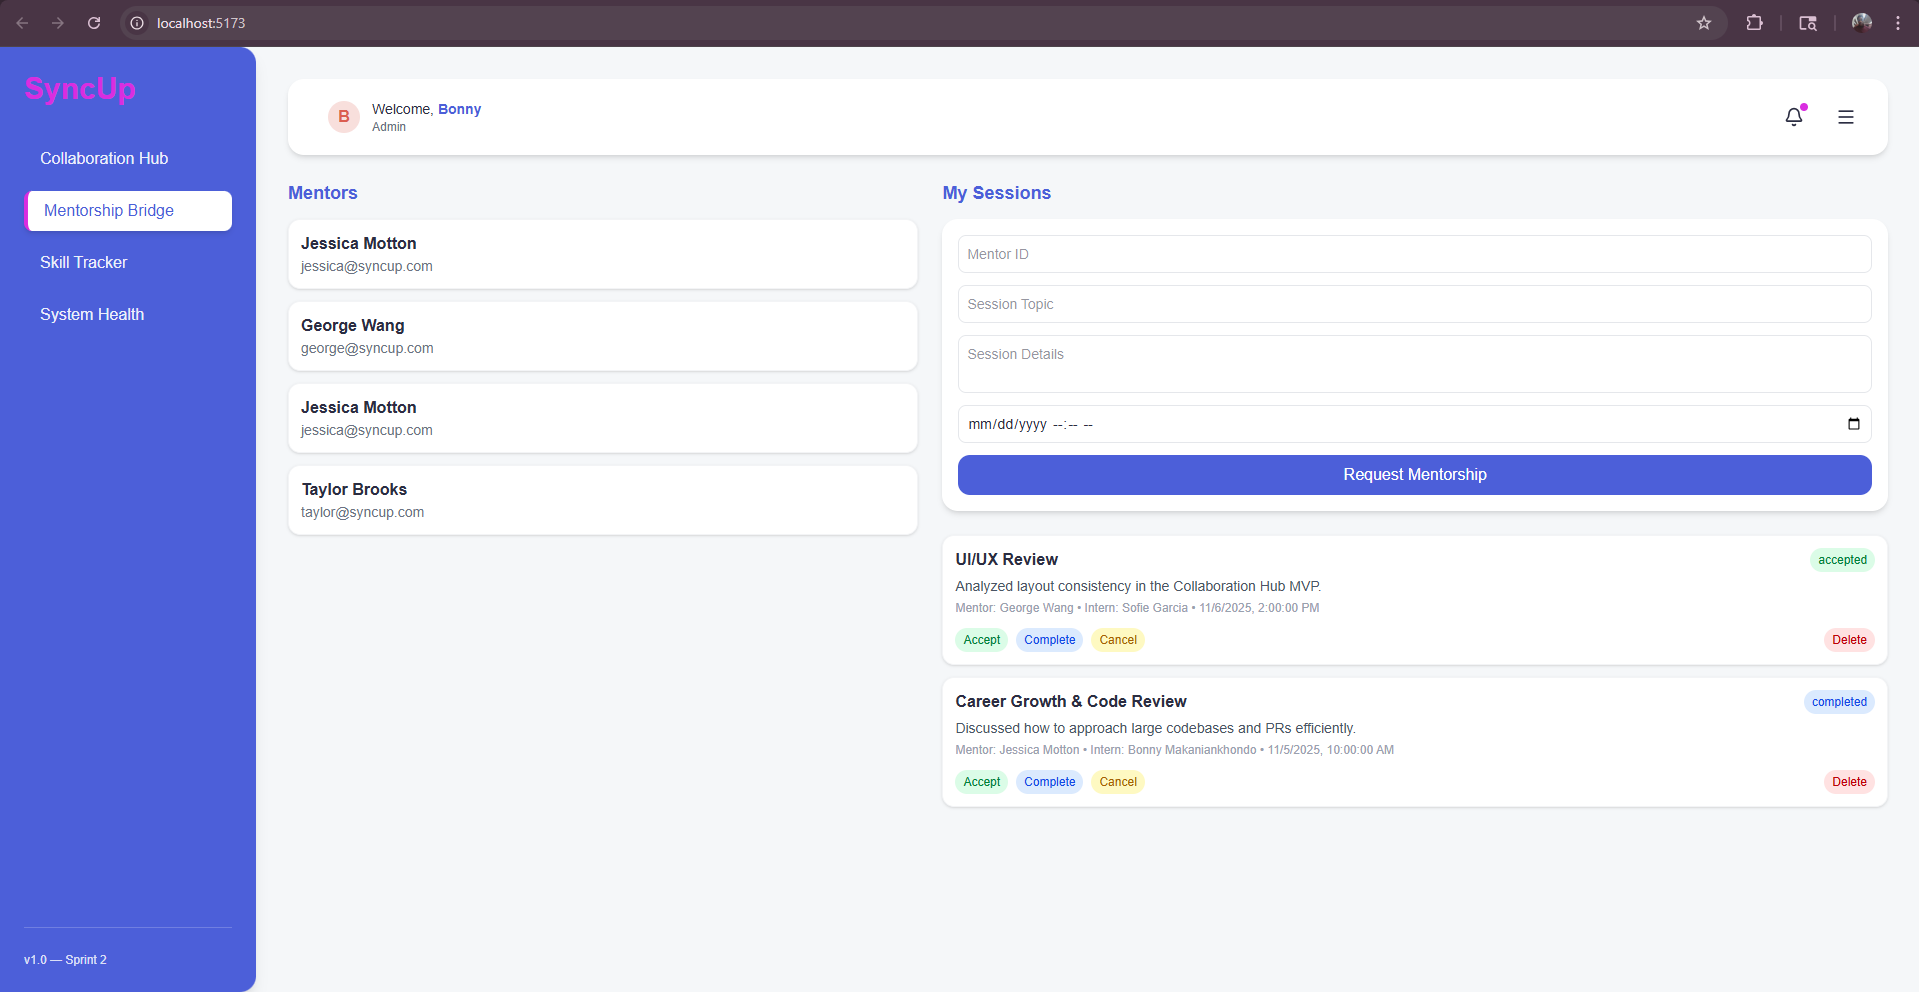
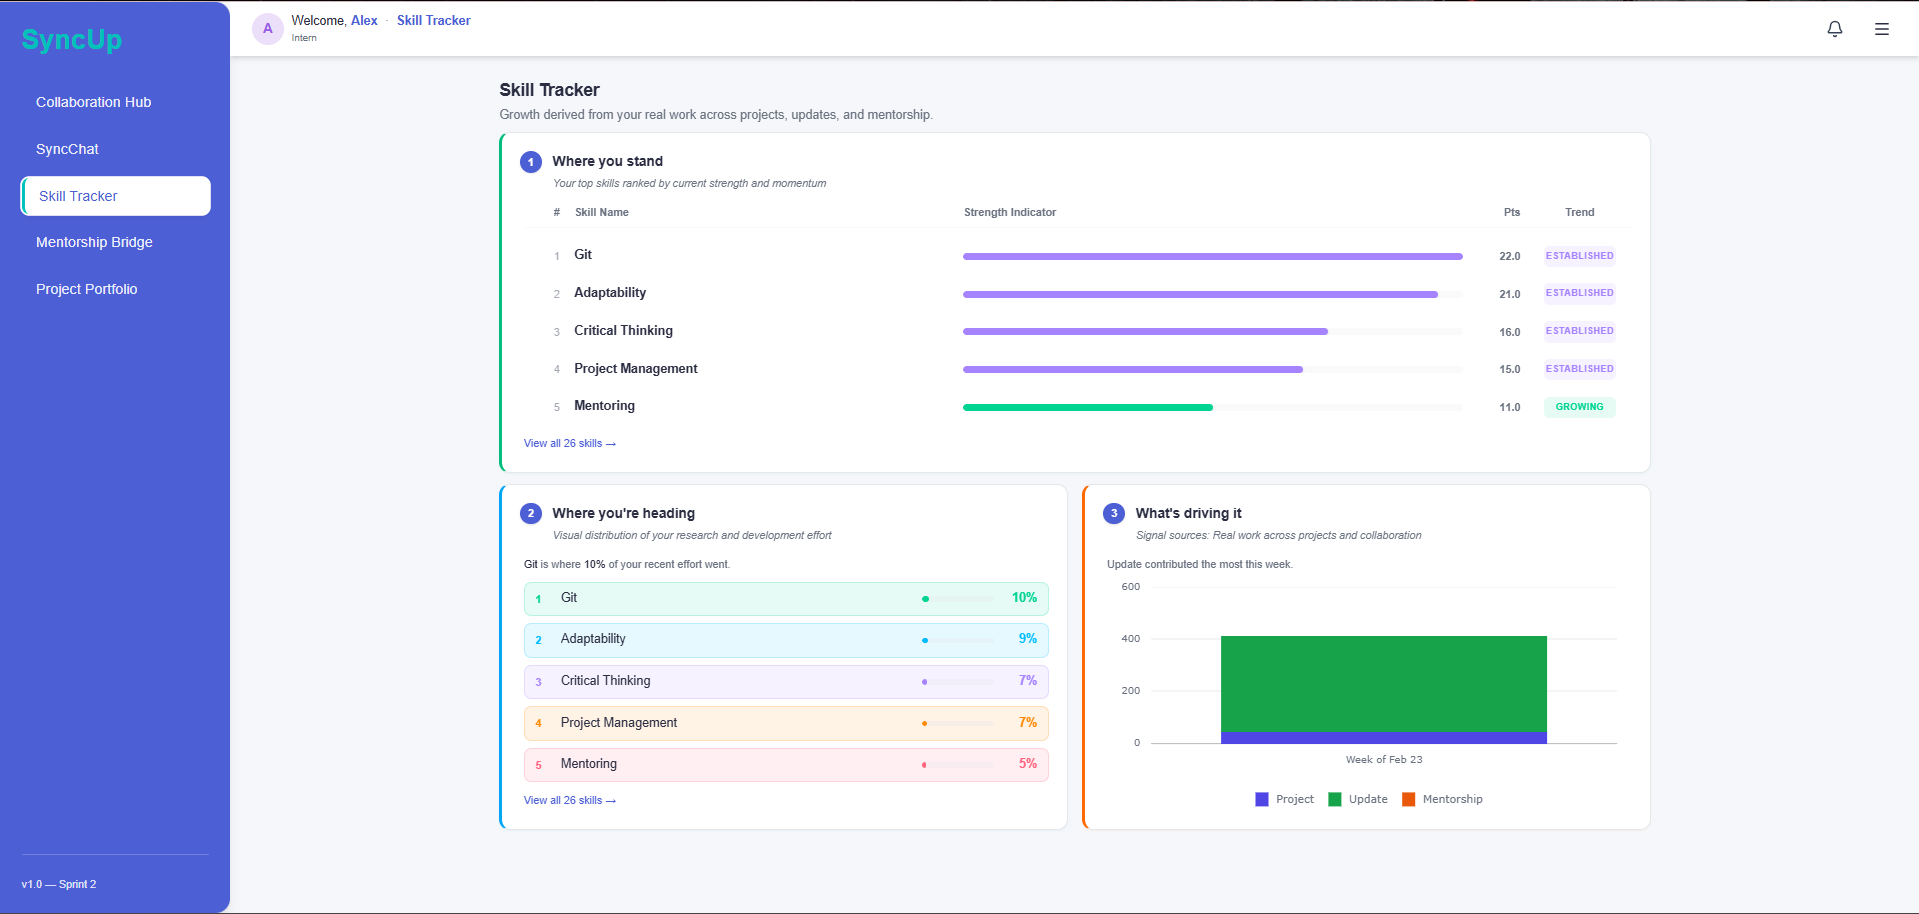
feat: implement project display components and add case study data

diff --git a/src/components/ui/ProjectImagePreview.jsx b/src/components/ui/ProjectImagePreview.jsx
@@ -1,0 +1,98 @@
+import { Expand, X } from "lucide-react";
+import { useEffect, useState } from "react";
+import { createPortal } from "react-dom";
+
+function PreviewModal({ alt, image, onClose, title }) {
+  useEffect(() => {
+    const onKeyDown = (event) => {
+      if (event.key === "Escape") {
+        onClose();
+      }
+    };
+
+    document.addEventListener("keydown", onKeyDown);
+    document.body.style.overflow = "hidden";
+
+    return () => {
+      document.removeEventListener("keydown", onKeyDown);
+      document.body.style.overflow = "";
+    };
+  }, [onClose]);
+
+  return createPortal(
+    <div
+      className="fixed inset-0 z-[80] flex items-center justify-center bg-slate-950/84 px-4 py-6 backdrop-blur-sm"
+      onClick={onClose}
+      role="presentation"
+    >
+      <div
+        className="relative w-full max-w-6xl overflow-hidden rounded-[1.75rem] border border-white/10 bg-slate-950 shadow-[0_40px_120px_-40px_rgba(15,23,42,0.9)]"
+        onClick={(event) => event.stopPropagation()}
+        role="dialog"
+        aria-modal="true"
+        aria-label={`${title} preview`}
+      >
+        <button
+          type="button"
+          onClick={onClose}
+          className="absolute right-4 top-4 z-10 inline-flex h-11 w-11 items-center justify-center rounded-full border border-white/15 bg-slate-950/80 text-white transition hover:bg-slate-900 focus-visible:outline-none focus-visible:ring-2 focus-visible:ring-white/60"
+          aria-label="Close image preview"
+        >
+          <X className="h-5 w-5" />
+        </button>
+
+        <div className="flex min-h-[50vh] max-h-[85vh] flex-col">
+          <div className="border-b border-white/10 px-5 py-4 pr-16 sm:px-6">
+            <p className="text-sm font-semibold text-white">{title}</p>
+          </div>
+
+          <div className="flex flex-1 items-center justify-center bg-[radial-gradient(circle_at_top,rgba(148,163,184,0.18),transparent_40%)] p-4 sm:p-6">
+            <img
+              src={image}
+              alt={alt}
+              className="max-h-[72vh] w-auto max-w-full object-contain"
+            />
+          </div>
+        </div>
+      </div>
+    </div>,
+    document.body,
+  );
+}
+
+export default function ProjectImagePreview({
+  alt,
+  frameClassName = "",
+  image,
+  imageClassName = "",
+  title,
+}) {
+  const [isOpen, setIsOpen] = useState(false);
+
+  return (
+    <>
+      <button
+        type="button"
+        onClick={() => setIsOpen(true)}
+        className={`relative block w-full overflow-hidden bg-slate-950 text-left focus-visible:outline-none focus-visible:ring-2 focus-visible:ring-slate-900 focus-visible:ring-offset-2 ${frameClassName}`}
+        aria-label={`Preview ${title}`}
+      >
+        <img src={image} alt={alt} className={`h-full w-full ${imageClassName}`} />
+        <span className="pointer-events-none absolute inset-x-0 bottom-0 h-24 bg-gradient-to-t from-slate-950/60 to-transparent" />
+        <span className="pointer-events-none absolute right-4 top-4 inline-flex items-center gap-2 rounded-full border border-white/15 bg-slate-950/78 px-3 py-1.5 text-xs font-semibold text-white shadow-lg shadow-slate-950/30">
+          <Expand className="h-3.5 w-3.5" />
+          Preview
+        </span>
+      </button>
+
+      {isOpen ? (
+        <PreviewModal
+          alt={alt}
+          image={image}
+          onClose={() => setIsOpen(false)}
+          title={title}
+        />
+      ) : null}
+    </>
+  );
+}

diff --git a/src/components/ui/ProjectCard.jsx b/src/components/ui/ProjectCard.jsx
@@ -1,9 +1,9 @@
-import { ArrowRight } from "lucide-react";
+import { ArrowRight, ArrowUpRight } from "lucide-react";
 import { Link } from "react-router-dom";
+import Button from "./Button";
+import ProjectImagePreview from "./ProjectImagePreview";
 
 export default function ProjectCard({ featured = false, project }) {
-  const imageHref = project.liveHref ?? project.githubHref;
-
   return (
     <article
       className={`group overflow-hidden rounded-[1.75rem] border border-slate-200/80 bg-white/85 shadow-[0_24px_70px_-45px_rgba(15,23,42,0.35)] backdrop-blur-sm ${
@@ -12,31 +12,13 @@ export default function ProjectCard({ featured = false, project }) {
     >
       <div className={`grid h-full ${featured ? "lg:grid-cols-[1.05fr_0.95fr]" : ""}`}>
         <div className="overflow-hidden bg-slate-950">
-          {imageHref ? (
-            <a
-              href={imageHref}
-              target="_blank"
-              rel="noopener noreferrer"
-              aria-label={`Open ${project.title} ${project.liveHref ? "live app" : "GitHub repository"}`}
-              className="block"
-            >
-              <img
-                src={project.image}
-                alt={project.imageAlt}
-                className={`w-full object-cover object-top transition duration-500 group-hover:scale-[1.03] ${
-                  featured ? "h-full min-h-[18rem] lg:min-h-[19rem]" : "h-56"
-                }`}
-              />
-            </a>
-          ) : (
-            <img
-              src={project.image}
-              alt={project.imageAlt}
-              className={`w-full object-cover object-top ${
-                featured ? "h-full min-h-[18rem] lg:min-h-[19rem]" : "h-56"
-              }`}
-            />
-          )}
+          <ProjectImagePreview
+            alt={project.imageAlt}
+            frameClassName={featured ? "aspect-[16/10] lg:h-full" : "aspect-[16/10]"}
+            image={project.image}
+            imageClassName="object-cover object-top transition duration-500 group-hover:scale-[1.03]"
+            title={project.shortTitle ?? project.title}
+          />
         </div>
 
         <div className="flex h-full flex-col p-6 sm:p-7">
@@ -74,26 +56,26 @@ export default function ProjectCard({ featured = false, project }) {
             ))}
           </ul>
 
-          <div className="mt-6 flex flex-wrap gap-3 text-sm font-semibold">
+          <div className="mt-6 flex flex-wrap gap-3">
             {project.liveHref ? (
-              <a
+              <Button
                 href={project.liveHref}
-                target="_blank"
-                rel="noopener noreferrer"
-                className="text-slate-950 transition hover:text-teal-700"
+                variant="primary"
+                className="px-4 py-2.5"
               >
                 Live App
-              </a>
+                <ArrowUpRight className="h-4 w-4" />
+              </Button>
             ) : null}
             {project.githubHref ? (
-              <a
+              <Button
                 href={project.githubHref}
-                target="_blank"
-                rel="noopener noreferrer"
-                className="text-slate-950 transition hover:text-teal-700"
+                variant="secondary"
+                className="px-4 py-2.5"
               >
                 GitHub
-              </a>
+                <ArrowUpRight className="h-4 w-4" />
+              </Button>
             ) : null}
           </div>
 

diff --git a/src/components/ui/ProjectCaseStudy.jsx b/src/components/ui/ProjectCaseStudy.jsx
@@ -1,6 +1,7 @@
 import { ArrowUpRight } from "lucide-react";
 import Button from "./Button";
 import Card from "./Card";
+import ProjectImagePreview from "./ProjectImagePreview";
 
 function DetailBlock({ items, text, title }) {
   return (
@@ -22,7 +23,6 @@ function DetailBlock({ items, text, title }) {
 
 export default function ProjectCaseStudy({ index = 0, project }) {
   const reverse = index % 2 === 1;
-  const imageHref = project.liveHref ?? project.githubHref;
   const links = [
     project.liveHref
       ? { label: "Live App", href: project.liveHref, primary: true }
@@ -44,27 +44,13 @@ export default function ProjectCaseStudy({ index = 0, project }) {
       >
         <div className="space-y-5">
           <div className="overflow-hidden rounded-[1.5rem] border border-slate-200 bg-slate-950">
-            {imageHref ? (
-              <a
-                href={imageHref}
-                target="_blank"
-                rel="noopener noreferrer"
-                aria-label={`Open ${project.title} ${project.liveHref ? "live app" : "GitHub repository"}`}
-                className="block"
-              >
-                <img
-                  src={project.image}
-                  alt={project.imageAlt}
-                  className="h-72 w-full object-cover object-top sm:h-80"
-                />
-              </a>
-            ) : (
-              <img
-                src={project.image}
-                alt={project.imageAlt}
-                className="h-72 w-full object-cover object-top sm:h-80"
-              />
-            )}
+            <ProjectImagePreview
+              alt={project.imageAlt}
+              frameClassName="aspect-[16/10]"
+              image={project.image}
+              imageClassName="object-cover object-top"
+              title={project.title}
+            />
           </div>
 
           <div className="grid gap-4 sm:grid-cols-2">

diff --git a/src/data/portfolioContent.js b/src/data/portfolioContent.js
@@ -6,7 +6,7 @@ import teaHostImage from "../assets/photos/teaguest.jpg";
 import teamWeekImage from "../assets/photos/teamweek.jpg";
 import unitedTeamImage from "../assets/photos/winning_team.jpg";
 import unitedImage from "../assets/photos/dasha.png";
-import workingImage from "../assets/photos/working.jpg";
+import workingImage from "../assets/photos/working.png";
 
 export const portfolioProjects = [
   {
